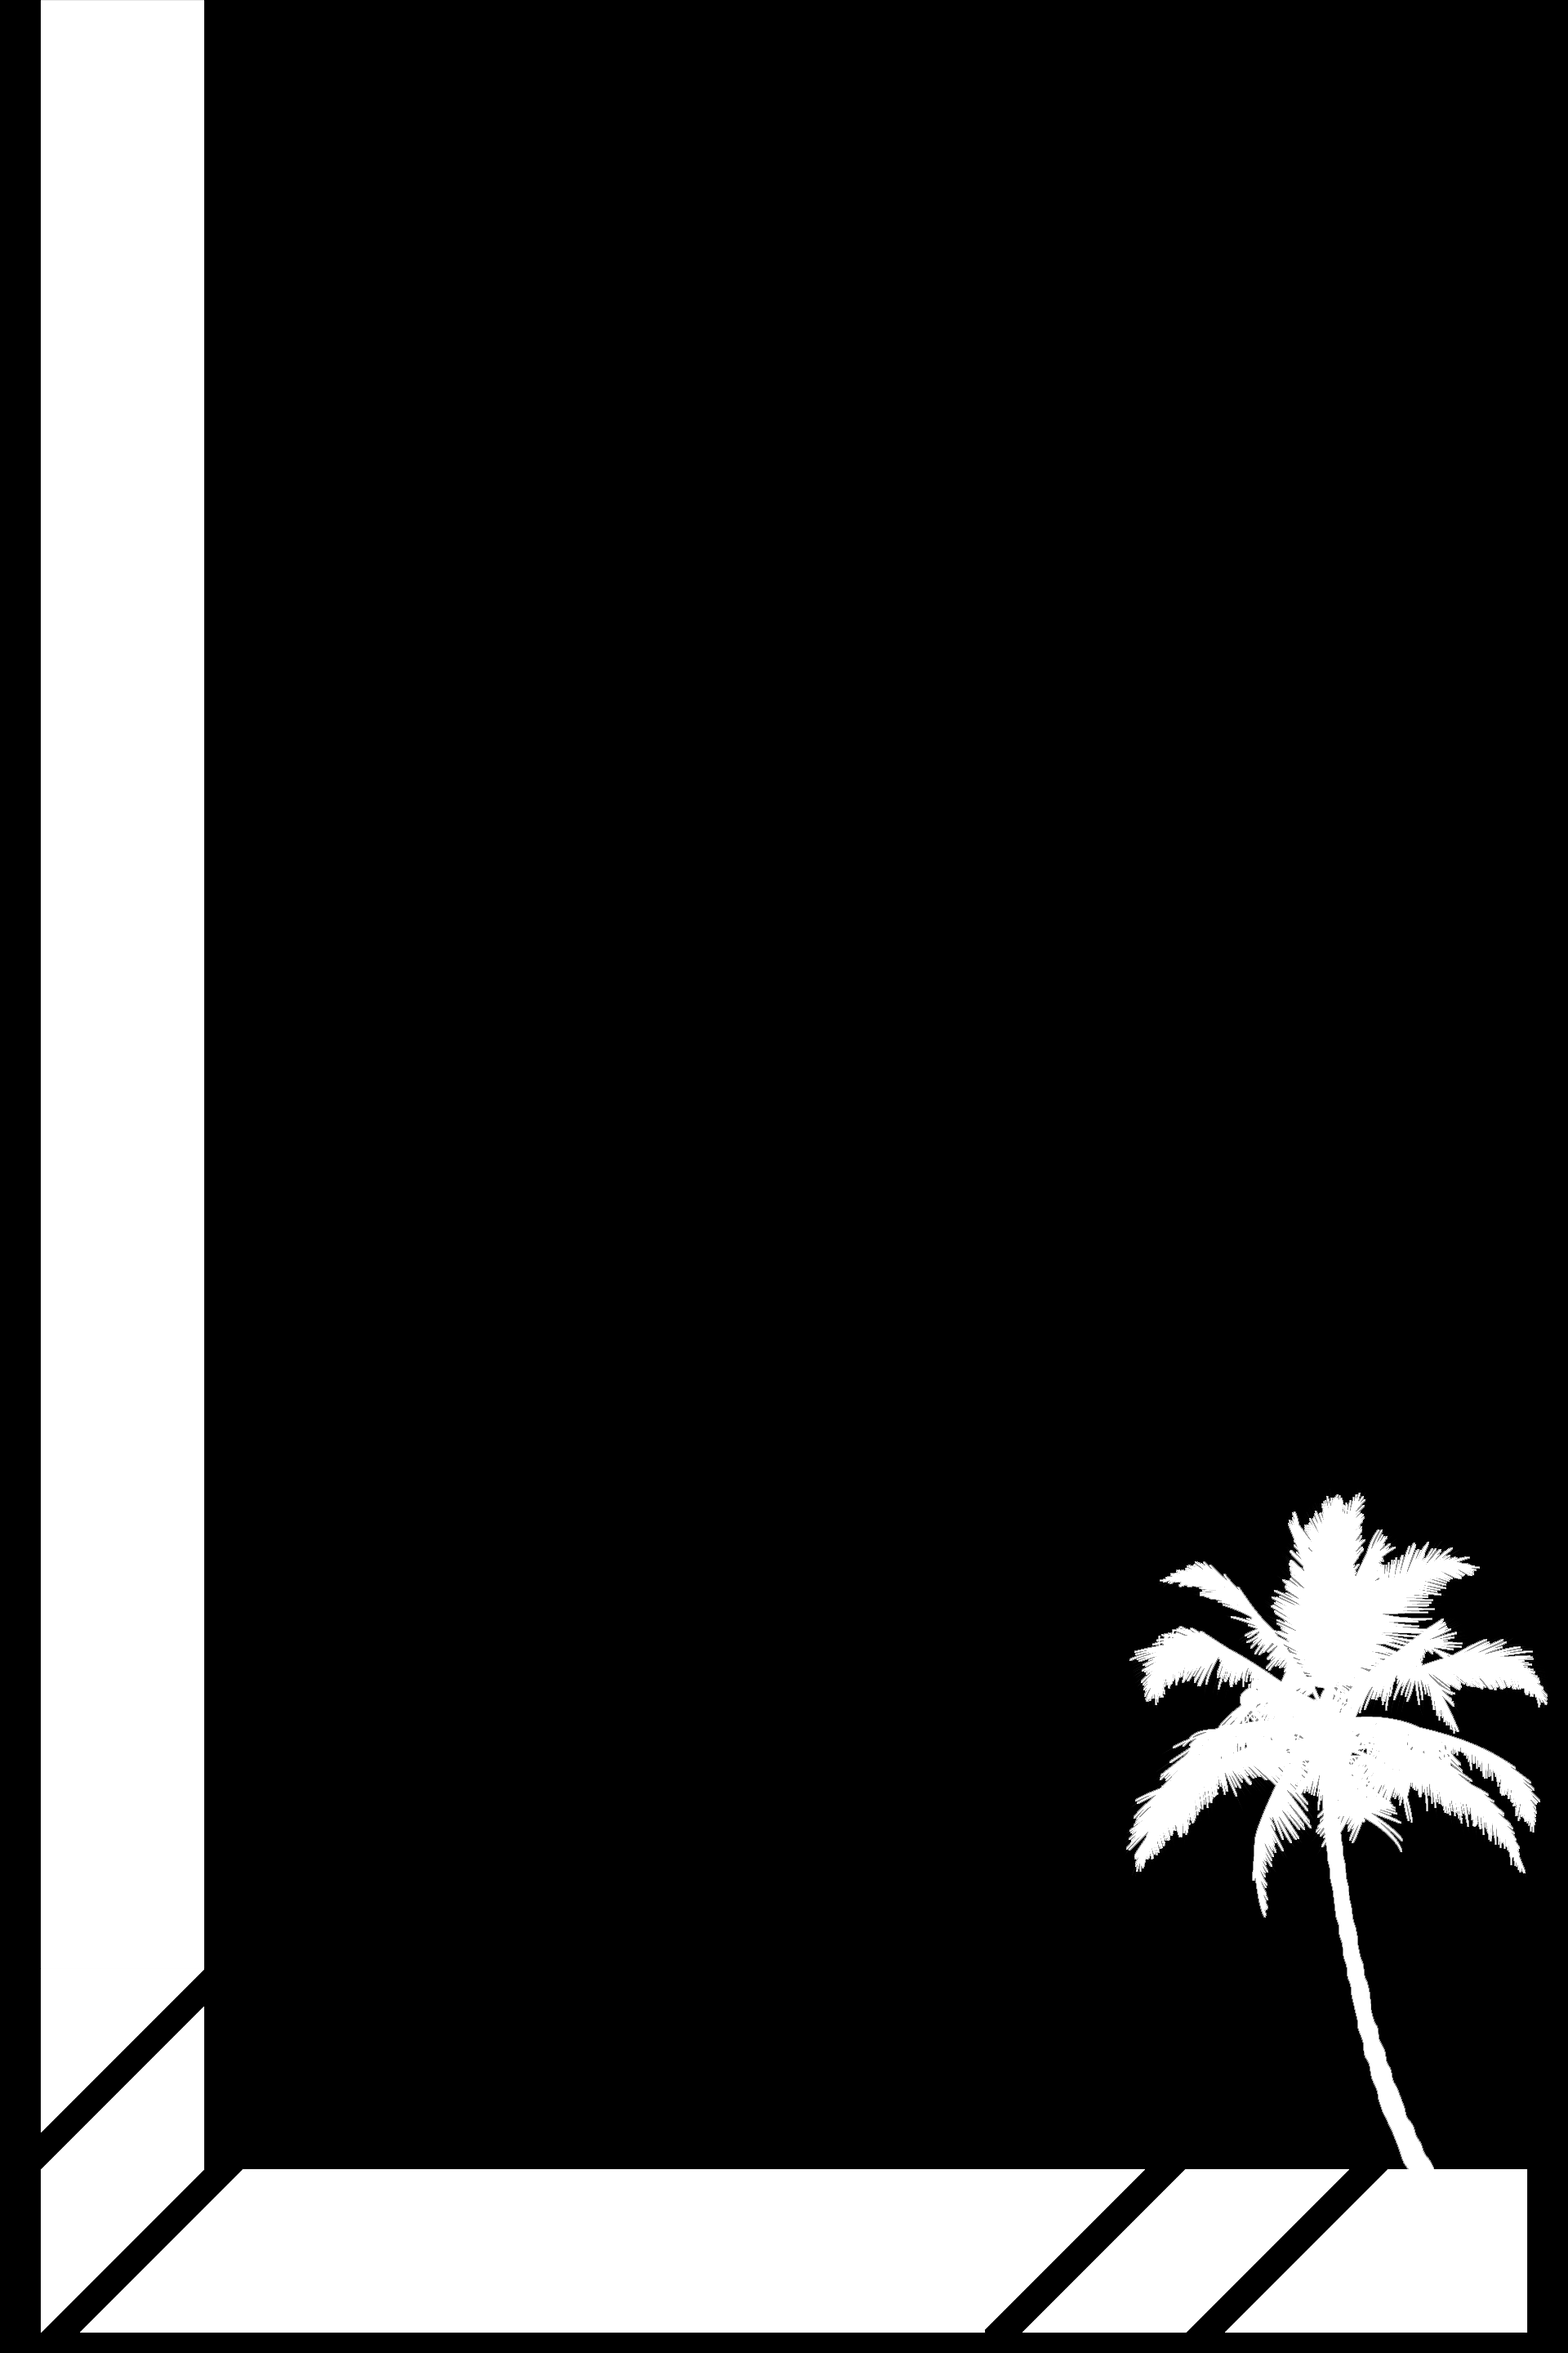
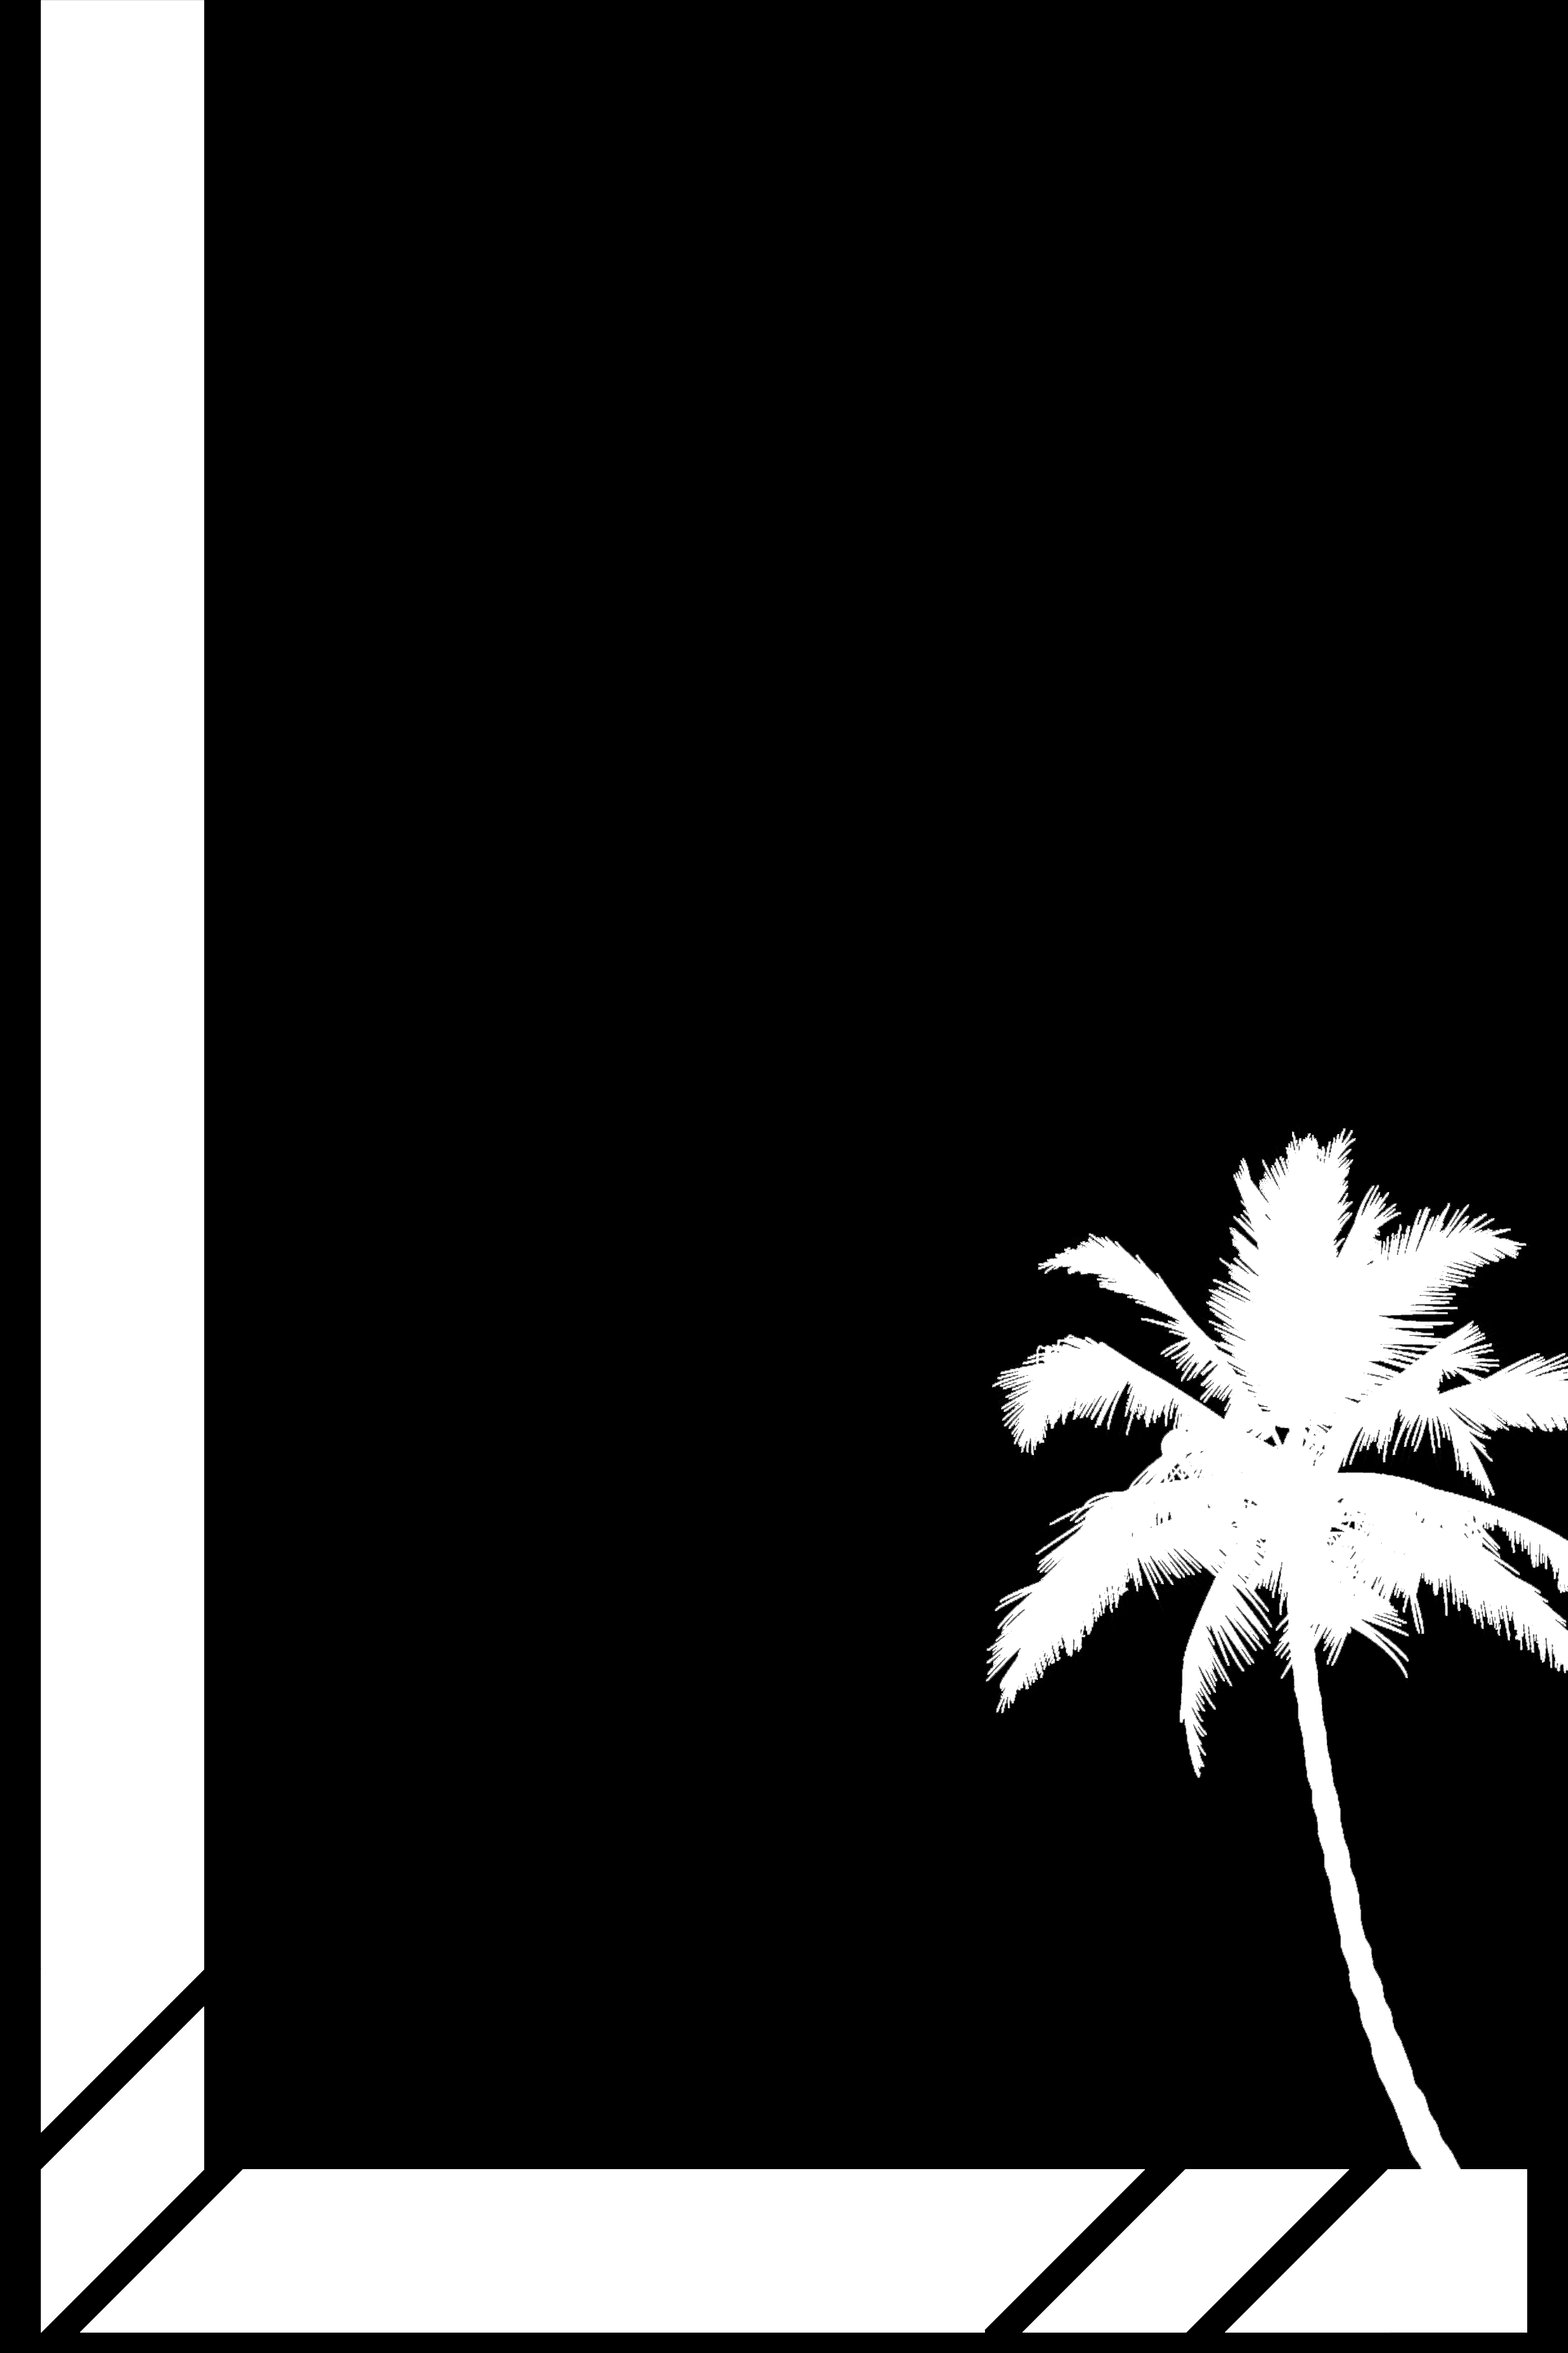
Added more backgrounds and breakpoints for about section

Changed region(s): [[0.625, 0.4688, 1.0, 0.9375]]

diff --git a/assets/css/style.css b/assets/css/style.css
@@ -160,7 +160,8 @@ button:hover {
 
 .about__overlay,
 .about__overlay__tablet,
-.about__overlay__mobile {
+.about__overlay__mobile,
+.about__overlay__xs {
   background-image: url('../images/about-section-bg.jpg');
   background-attachment: fixed;
   background-position: top;
@@ -171,7 +172,8 @@ button:hover {
 }
 
 .about__overlay__tablet,
-.about__overlay__mobile {
+.about__overlay__mobile,
+.about__overlay_xs {
   display: none;
 }
 
@@ -565,6 +567,7 @@ button:hover {
 .slick-dots .slick-active button {
   background-color: var(--dark-theme-gold);
   color: var(--black);
+  background-image: url(../images/miamiseal.png);
 }
 
 .project__animation1,
@@ -903,30 +906,40 @@ button:hover {
   }
 }
 
-@media (max-width: 1050px) {
-  .about__mosaic {
-    margin-left: 22vw;
-    grid-template-rows: repeat(4, 60px);
-    grid-template-columns: repeat(4, 60px);
-  }
+@media (max-width: 1200px) {
   .about__overlay__tablet {
     display: none;
   }
   .about__overlay__mobile {
+    display: block;
+  }
+  .about__mosaic {
+    top: 480px;
+    margin-left: 20vw;
+    grid-template-rows: repeat(4, 85px);
+    grid-template-columns: repeat(4, 85px);
+  }
+}
+
+@media (max-width: 750px) {
+  .about__mosaic {
+    top: 600px;
+    margin-left: 18vw;
+    grid-template-rows: repeat(4, 65px);
+    grid-template-columns: repeat(4, 65px);
+  }
+  .about__overlay__mobile {
+    display: none;
+  }
+  .about__overlay__xs {
     display: block;
   }
 }
 
 @media (max-width: 650px) {
   .about__mosaic {
-    margin-left: 22vw;
-    grid-template-rows: repeat(4, 60px);
-    grid-template-columns: repeat(4, 60px);
-  }
-  .about__overlay__tablet {
-    display: none;
-  }
-  .about__overlay__mobile {
-    display: block;
+    margin-left: 18vw;
+    grid-template-rows: repeat(4, 75px);
+    grid-template-columns: repeat(4, 75px);
   }
 }

diff --git a/index.html b/index.html
@@ -64,6 +64,11 @@
         src="assets/images/mike2mobile.png"
         alt="palm trees at sunset over a pink and orange background image"
       />
+      <img
+        class="about__overlay__xs"
+        src="assets/images/mike2xs.png"
+        alt="palm trees at sunset over a pink and orange background image"
+      />
       <div class="about__description">
         <h3>ABOUT ME</h3>
         <p>Lorem ipsum dolor sit amet consectetur adipisicing elit.</p>
